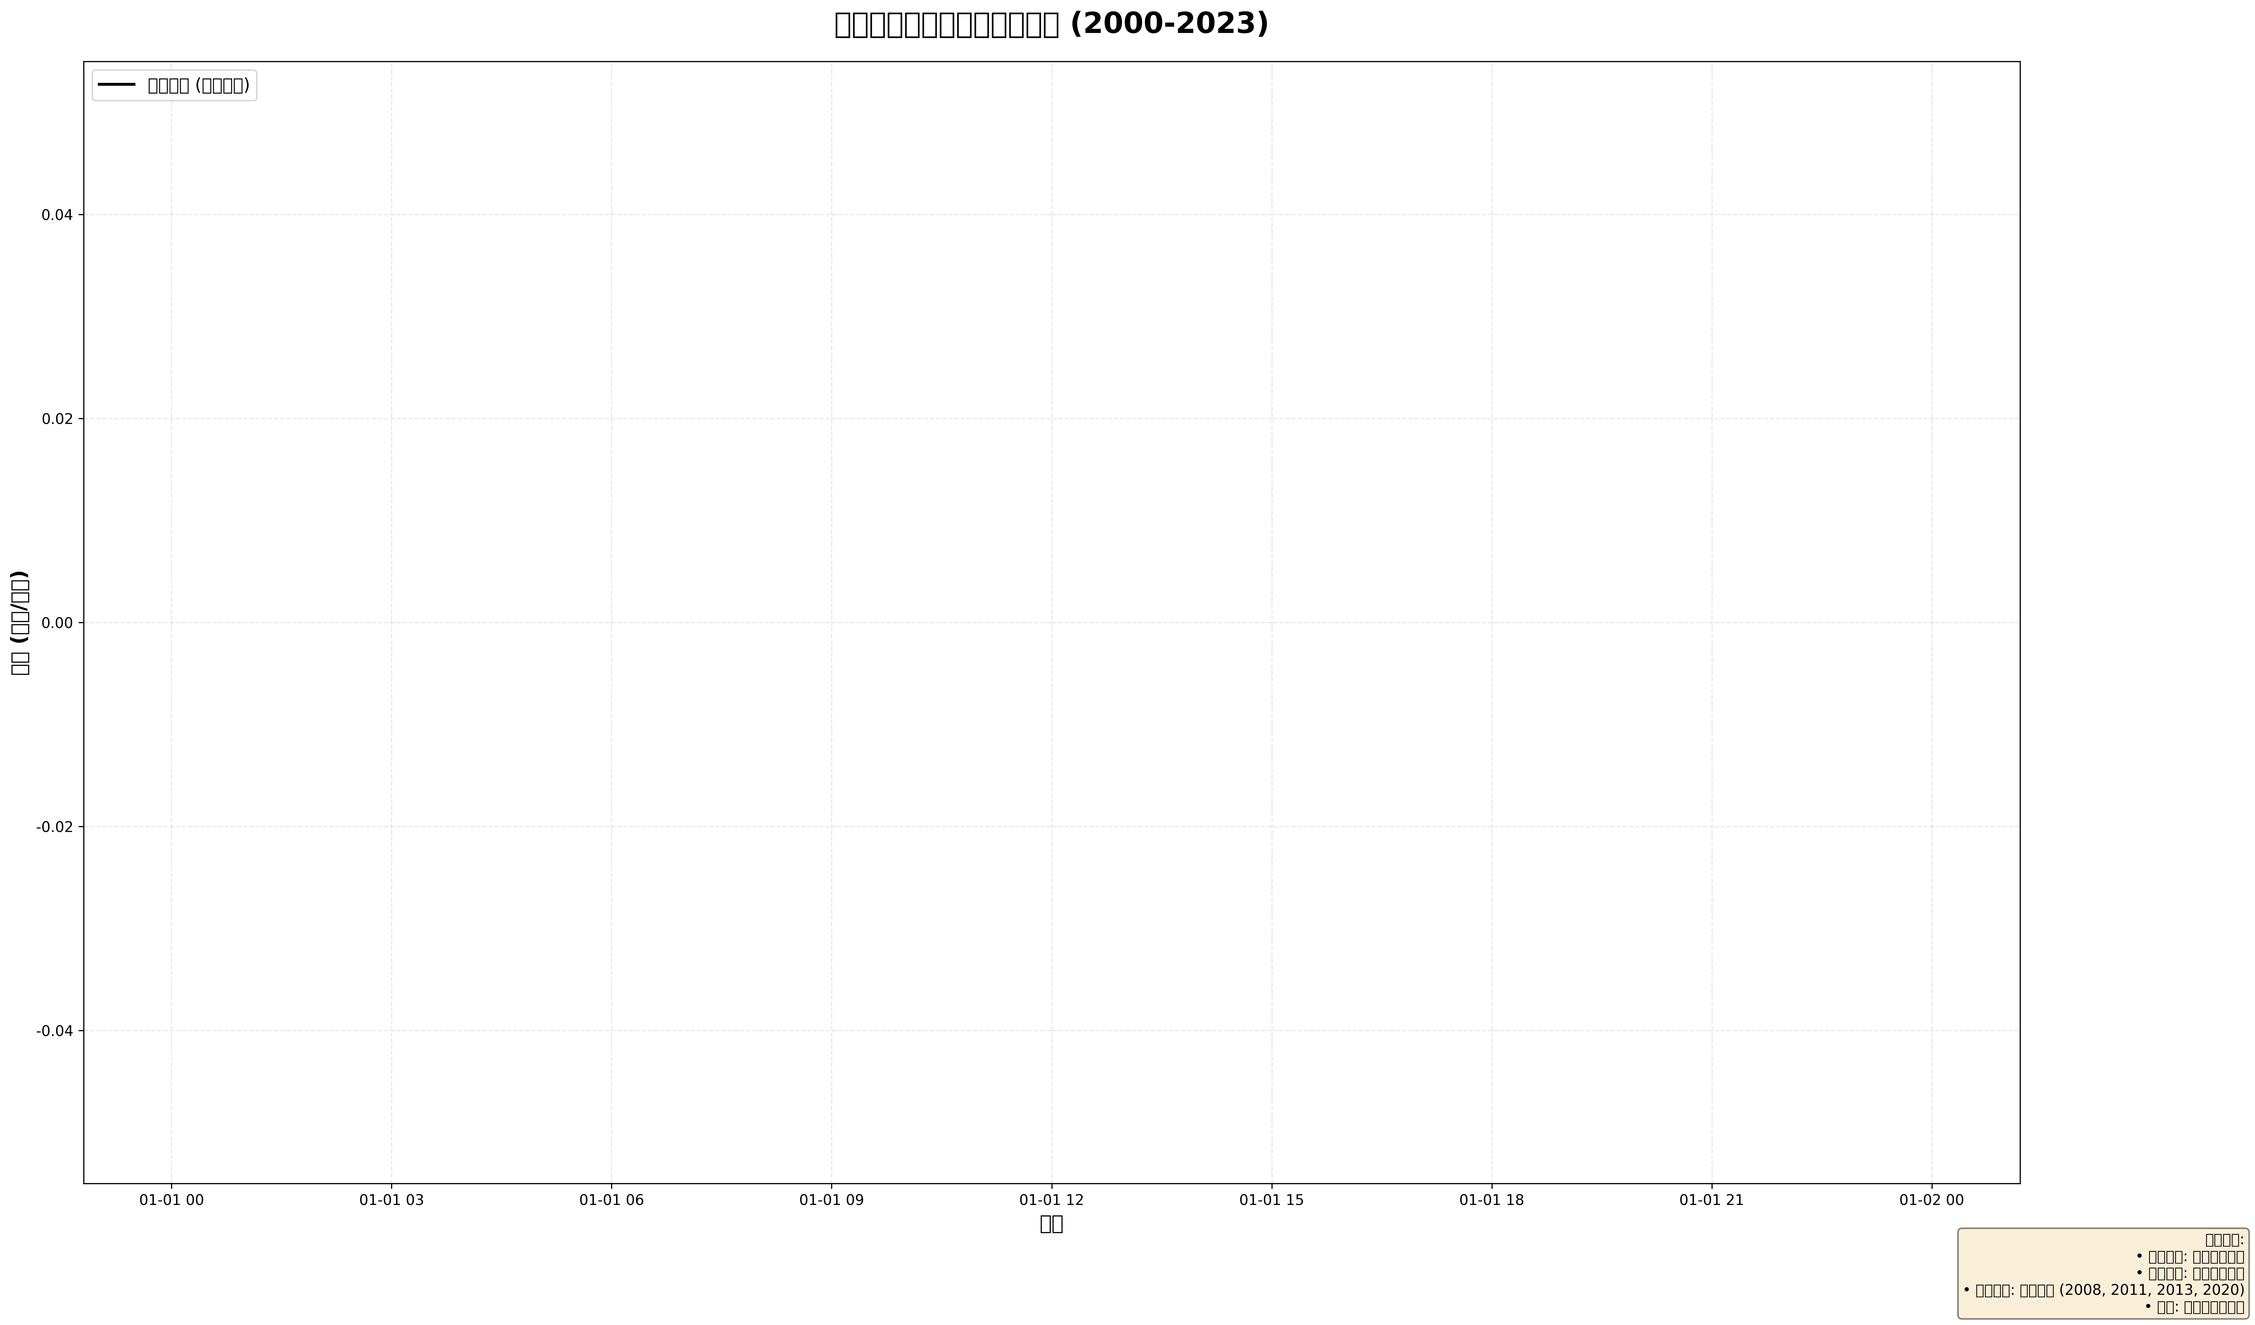
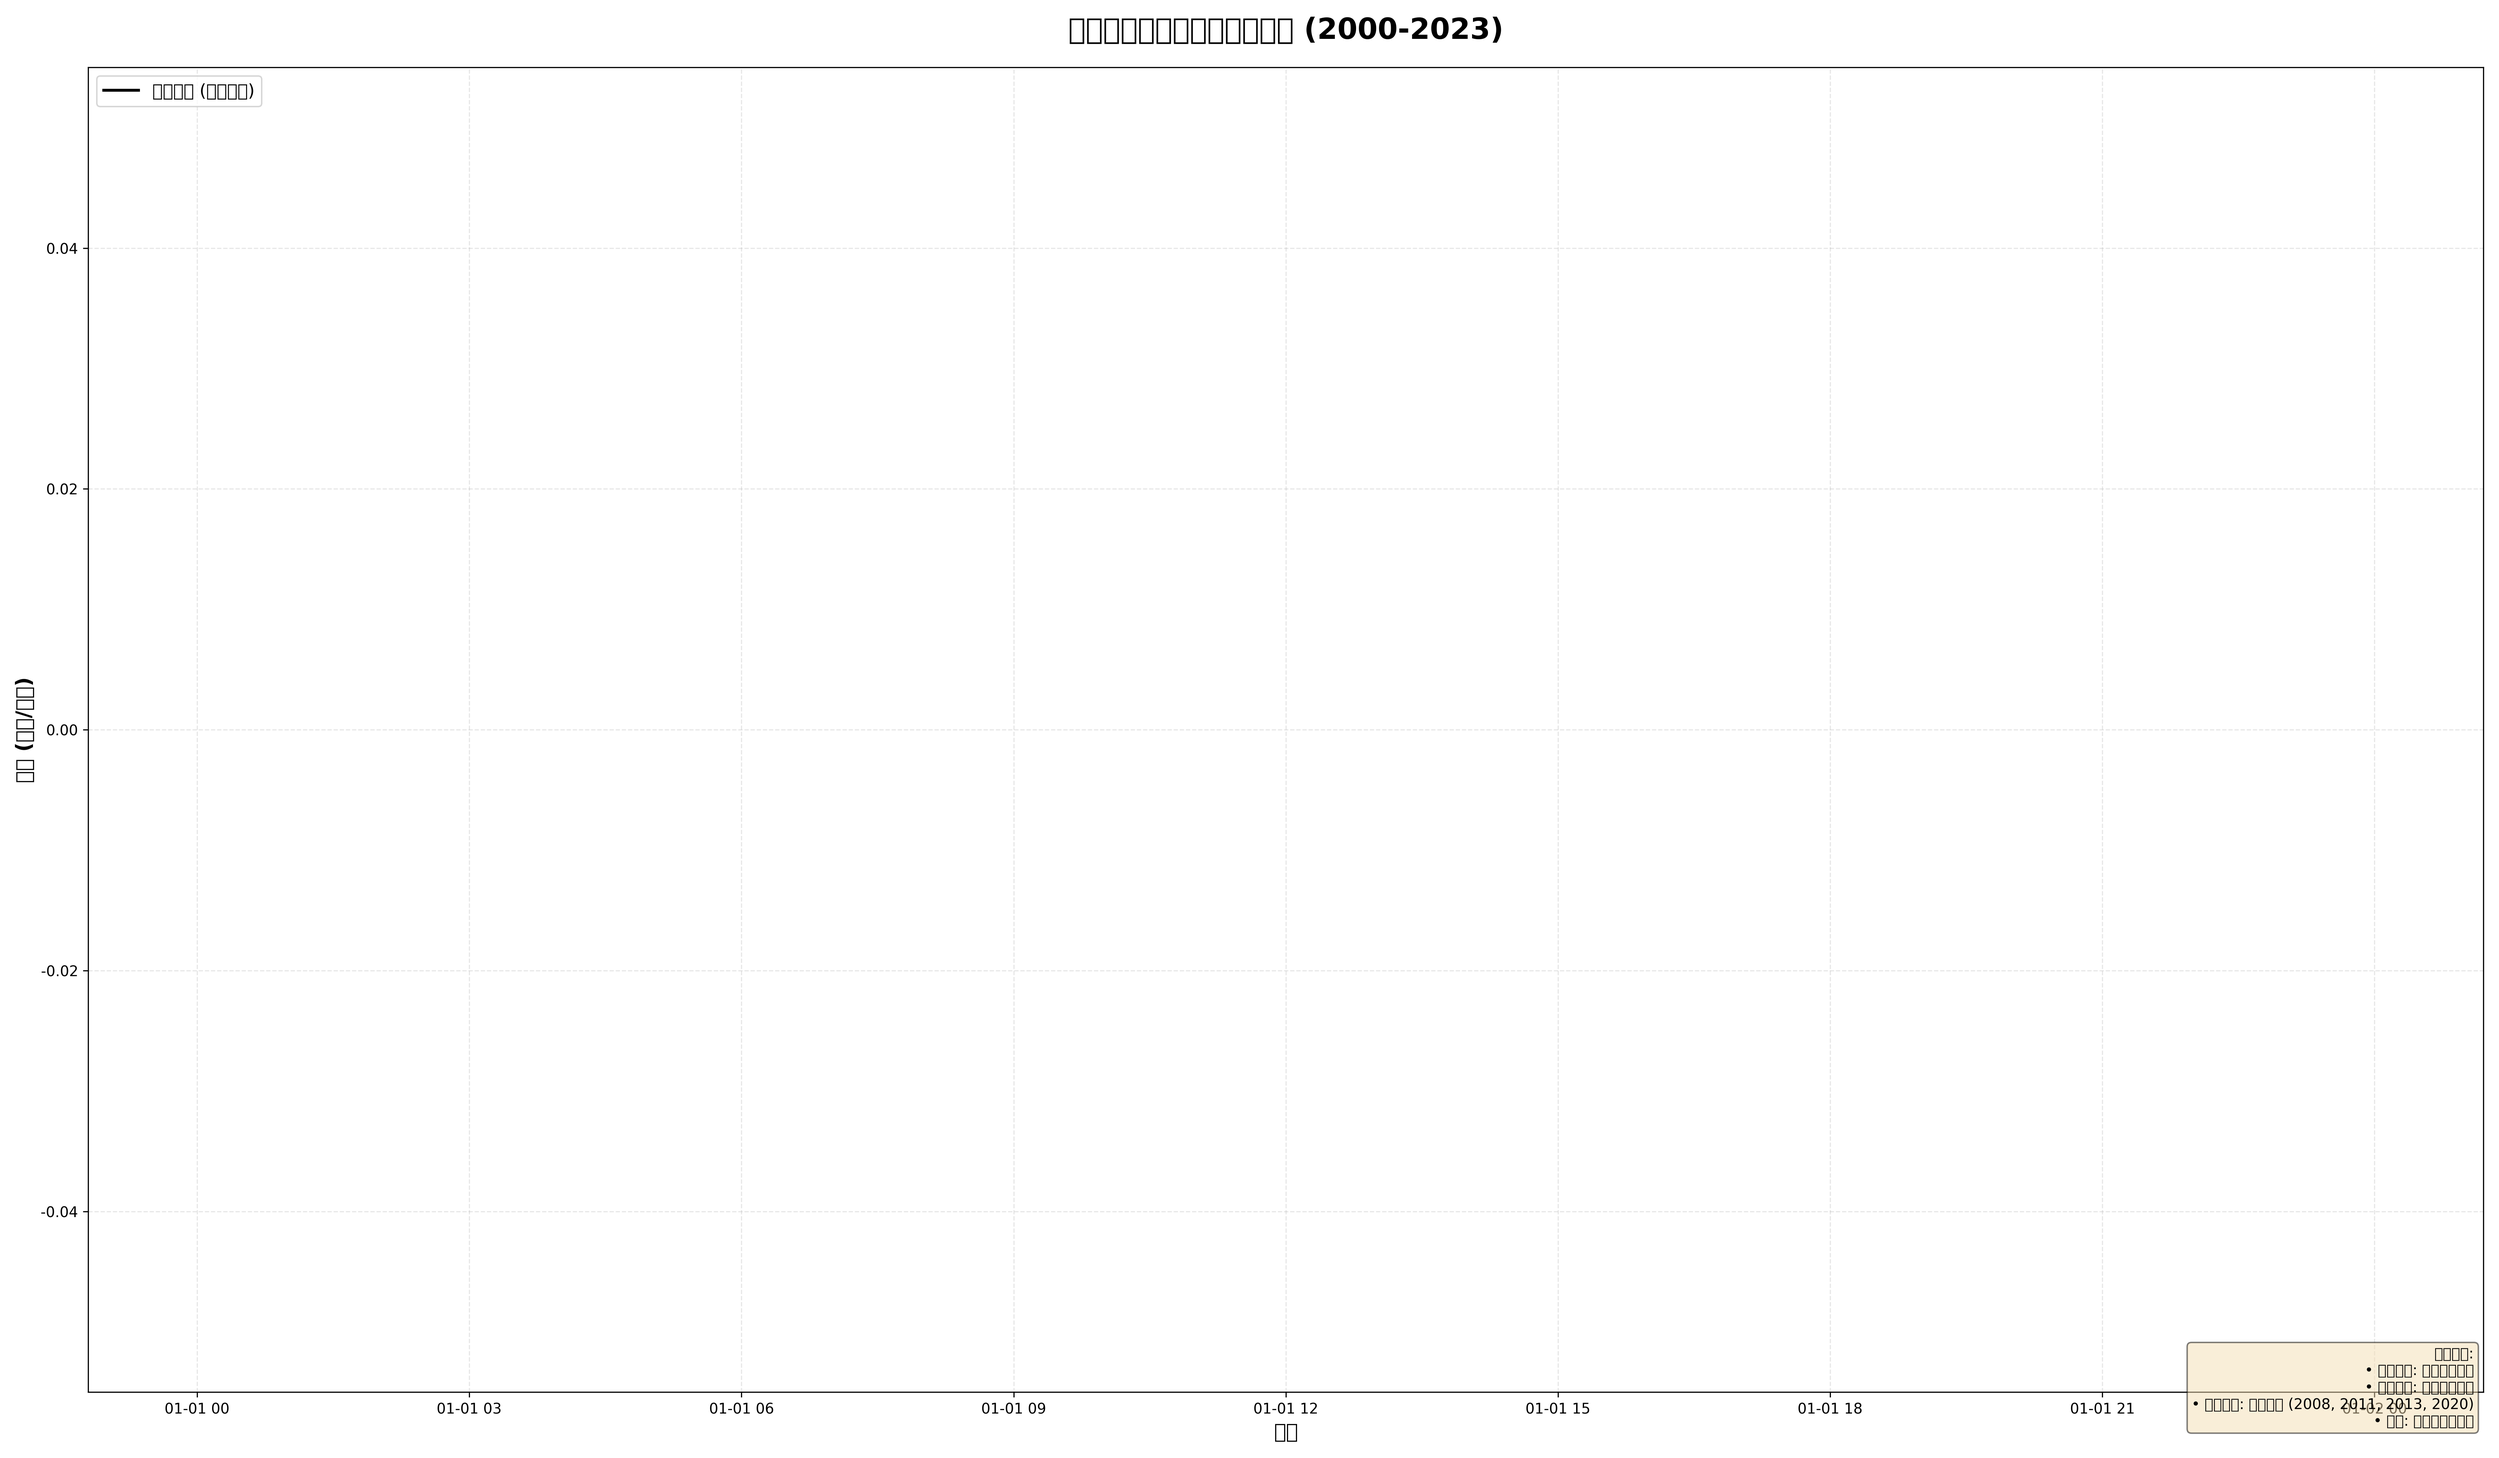
Fix visualization size and add tests and documentation

diff --git a/tests/test_gold_price_visualization.py b/tests/test_gold_price_visualization.py
@@ -1,0 +1,93 @@
+#!/usr/bin/env python3
+# -*- coding: utf-8 -*-
+"""
+Test suite for gold price visualization script
+"""
+
+import os
+import sys
+import pytest
+import pandas as pd
+from PIL import Image
+
+# Add parent directory to path
+sys.path.insert(0, os.path.dirname(os.path.dirname(os.path.abspath(__file__))))
+
+
+class TestGoldPriceVisualization:
+    """Tests for the gold price visualization outputs"""
+    
+    @pytest.fixture
+    def reports_dir(self):
+        """Get the reports directory path"""
+        return os.path.join(os.path.dirname(os.path.dirname(__file__)), 'reports')
+    
+    def test_reports_directory_exists(self, reports_dir):
+        """Test that reports directory exists"""
+        assert os.path.exists(reports_dir), "Reports directory should exist"
+        assert os.path.isdir(reports_dir), "Reports should be a directory"
+    
+    def test_visualization_png_exists(self, reports_dir):
+        """Test that visualization PNG file exists"""
+        png_path = os.path.join(reports_dir, 'gold_price_complete_visualization.png')
+        assert os.path.exists(png_path), "Visualization PNG should exist"
+    
+    def test_annual_summary_csv_exists(self, reports_dir):
+        """Test that annual summary CSV exists"""
+        csv_path = os.path.join(reports_dir, 'annual_summary.csv')
+        assert os.path.exists(csv_path), "Annual summary CSV should exist"
+    
+    def test_visualization_image_properties(self, reports_dir):
+        """Test that visualization image has correct properties"""
+        png_path = os.path.join(reports_dir, 'gold_price_complete_visualization.png')
+        
+        if not os.path.exists(png_path):
+            pytest.skip("PNG file not found")
+        
+        img = Image.open(png_path)
+        
+        # Test image size (should be 24x14 inches at 300 DPI = 7200x4200 pixels)
+        assert img.size[0] == 7200, f"Width should be 7200 pixels, got {img.size[0]}"
+        assert img.size[1] == 4200, f"Height should be 4200 pixels, got {img.size[1]}"
+        
+        # Test format
+        assert img.format == 'PNG', f"Format should be PNG, got {img.format}"
+    
+    def test_annual_summary_csv_content(self, reports_dir):
+        """Test that annual summary CSV has correct content"""
+        csv_path = os.path.join(reports_dir, 'annual_summary.csv')
+        
+        if not os.path.exists(csv_path):
+            pytest.skip("CSV file not found")
+        
+        df = pd.read_csv(csv_path)
+        
+        # Test that we have data for 24 years (2000-2023)
+        assert len(df) == 24, f"Should have 24 years of data, got {len(df)}"
+        
+        # Test column names
+        expected_columns = ['年份', '预测收益率', '实际收益率', '预测误差', 
+                          'Top因子', 'Top因子贡献', '触发器']
+        for col in expected_columns:
+            assert col in df.columns, f"Column '{col}' should exist in CSV"
+        
+        # Test year range
+        assert df['年份'].min() == 2000, "Minimum year should be 2000"
+        assert df['年份'].max() == 2023, "Maximum year should be 2023"
+    
+    def test_annual_data_has_key_years(self, reports_dir):
+        """Test that key years (2008, 2011, 2013, 2020) are present"""
+        csv_path = os.path.join(reports_dir, 'annual_summary.csv')
+        
+        if not os.path.exists(csv_path):
+            pytest.skip("CSV file not found")
+        
+        df = pd.read_csv(csv_path)
+        key_years = [2008, 2011, 2013, 2020]
+        
+        for year in key_years:
+            assert year in df['年份'].values, f"Key year {year} should be in data"
+
+
+if __name__ == '__main__':
+    pytest.main([__file__, '-v'])

diff --git a/create_gold_price_chart.py b/create_gold_price_chart.py
@@ -400,8 +400,8 @@ def create_gold_price_visualization():
     # 1. 下载金价数据
     gold_data = download_gold_data('2000-01-01', '2024-01-01')
     
-    # 2. 创建画布
-    fig, ax = plt.subplots(figsize=(24, 14))
+    # 2. 创建画布 (24x14 inches as specified)
+    fig, ax = plt.subplots(figsize=(24, 14), dpi=100)
     
     # 3. 绘制主曲线（周度金价）
     ax.plot(gold_data.index, gold_data['Close'], 
@@ -441,7 +441,9 @@ def create_gold_price_visualization():
     # 7. 保存图表
     output_path = 'reports/gold_price_complete_visualization.png'
     print(f"\n保存图表到: {output_path}")
-    plt.savefig(output_path, dpi=300, bbox_inches='tight', facecolor='white')
+    # Adjust layout to fit everything properly
+    plt.tight_layout()
+    plt.savefig(output_path, dpi=300, facecolor='white')
     print("✅ 图表保存成功!")
     
     # 8. 保存年度数据摘要

diff --git a/reports/README.md b/reports/README.md
@@ -1,0 +1,134 @@
+# 黄金价格可视化报告 / Gold Price Visualization Reports
+
+本目录包含黄金价格分析的可视化报告和数据文件。
+
+This directory contains visualization reports and data files for gold price analysis.
+
+## 📁 文件说明 / Files Description
+
+### 1. gold_price_complete_visualization.png
+**黄金价格综合可视化图表 (2000-2023)**
+
+- **尺寸**: 24×14英寸 (7200×4200像素)
+- **分辨率**: 300 DPI
+- **格式**: PNG
+- **内容**:
+  - 2000-2023年金价周度走势曲线
+  - 每年的预测值 vs 实际值标注
+  - Top驱动因子及其贡献度
+  - 关键事件触发器标记
+  - 关键年份高亮显示（2008/2011/2013/2020）
+
+**Features**:
+  - Weekly gold price trend (2000-2023)
+  - Annual predictions vs. actual values
+  - Top driving factors and contributions
+  - Key event trigger markers
+  - Highlighted key years (2008/2011/2013/2020)
+
+### 2. annual_summary.csv
+**年度数据摘要表**
+
+包含每年的详细数据：
+- 年份
+- 预测收益率
+- 实际收益率
+- 预测误差
+- Top因子名称
+- Top因子贡献度
+- 触发器事件
+
+**Contains annual data**:
+- Year
+- Predicted return
+- Actual return
+- Prediction error
+- Top factor name
+- Top factor contribution
+- Trigger events
+
+## 🚀 如何生成报告 / How to Generate Reports
+
+### 前提条件 / Prerequisites
+
+```bash
+# 安装依赖 / Install dependencies
+pip install pandas numpy matplotlib yfinance pillow
+```
+
+### 运行脚本 / Run Script
+
+```bash
+# 在项目根目录执行 / Run from project root
+python create_gold_price_chart.py
+```
+
+脚本会自动：
+1. 下载2000-2023年的黄金价格周度数据
+2. 生成综合可视化图表
+3. 保存年度数据摘要CSV文件
+
+The script will automatically:
+1. Download weekly gold price data (2000-2023)
+2. Generate comprehensive visualization
+3. Save annual summary CSV file
+
+## 📊 图表说明 / Chart Legend
+
+### 颜色编码 / Color Coding
+- **绿色边框**: 金价上涨年份 / Green border: Years with positive returns
+- **红色边框**: 金价下跌年份 / Red border: Years with negative returns
+- **加粗边框**: 关键年份 / Bold border: Key years (2008, 2011, 2013, 2020)
+- **黄色背景**: 重大金融危机年份 / Yellow background: Major financial crisis years
+
+### 事件标记 / Event Markers
+- **蓝色箭头**: 正面事件（如QE政策）/ Blue arrows: Positive events (e.g., QE policies)
+- **红色箭头**: 负面事件（如危机）/ Red arrows: Negative events (e.g., crises)
+- **橙色箭头**: 中性/混合影响事件 / Orange arrows: Neutral/mixed impact events
+
+## 📈 关键年份分析 / Key Years Analysis
+
+### 2008年 - 金融危机 / Financial Crisis
+- 实际收益: +4.3%
+- Top因子: VIX风险指数 (+8.9%)
+- 触发器: 流动性危机
+
+### 2011年 - 主权债务危机 / Sovereign Debt Crisis
+- 实际收益: +10.2%
+- Top因子: VIX风险指数 (+7.6%)
+- 触发器: 美国主权评级下调
+
+### 2013年 - Taper恐慌 / Taper Tantrum
+- 实际收益: -28.1%
+- Top因子: 美联储Taper (-9.1%)
+- 触发器: Taper恐慌
+
+### 2020年 - 疫情+无限QE / Pandemic + Unlimited QE
+- 实际收益: +24.9%
+- Top因子: 动量因子 (+6.25%)
+- 触发器: 疫情爆发、无限QE
+
+## 💡 数据来源 / Data Sources
+
+- **金价数据**: Yahoo Finance (GC=F 黄金期货)
+- **预测模型**: 基于多因子模型的年度预测
+- **因子分析**: 包括VIX、美元指数、实际利率、央行购金等
+
+**Gold Price Data**: Yahoo Finance (GC=F Gold Futures)
+**Prediction Model**: Multi-factor model annual predictions
+**Factor Analysis**: Including VIX, USD Index, Real Interest Rates, Central Bank Purchases, etc.
+
+## 📝 更新日志 / Changelog
+
+### 2024-10-23
+- ✅ 创建初始可视化脚本
+- ✅ 生成2000-2023年完整图表
+- ✅ 添加24年年度数据标注
+- ✅ 实现触发器事件标记
+- ✅ 创建年度摘要CSV文件
+
+## 📧 联系方式 / Contact
+
+如有问题或建议，请通过GitHub Issues反馈。
+
+For questions or suggestions, please submit via GitHub Issues.
